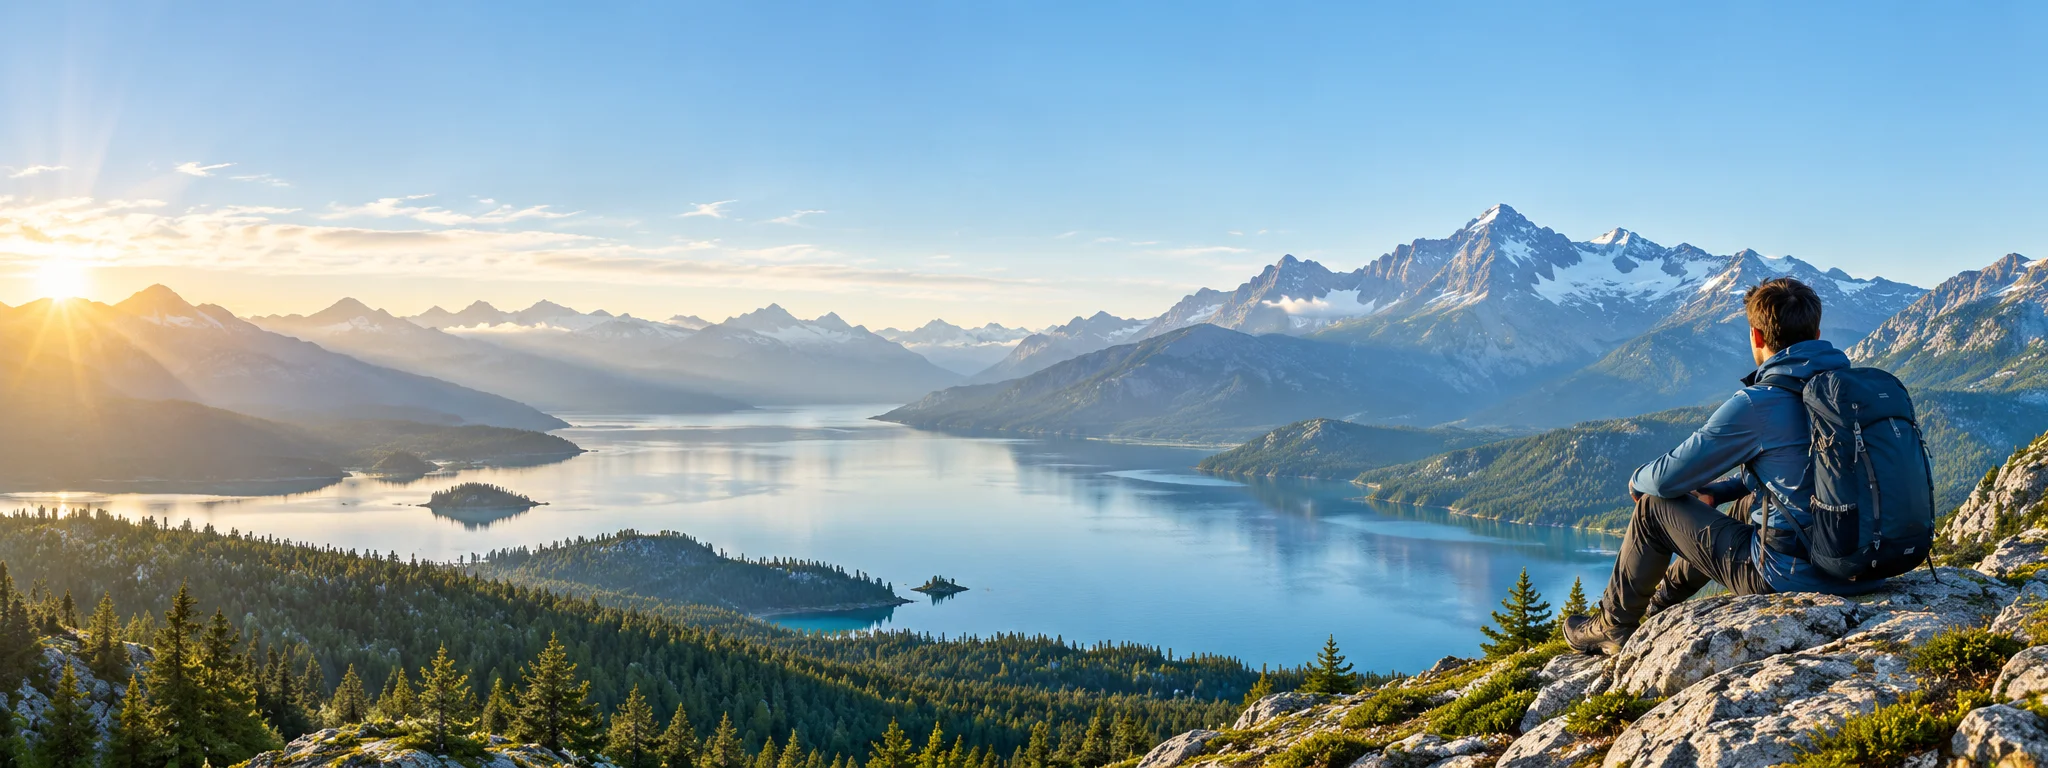
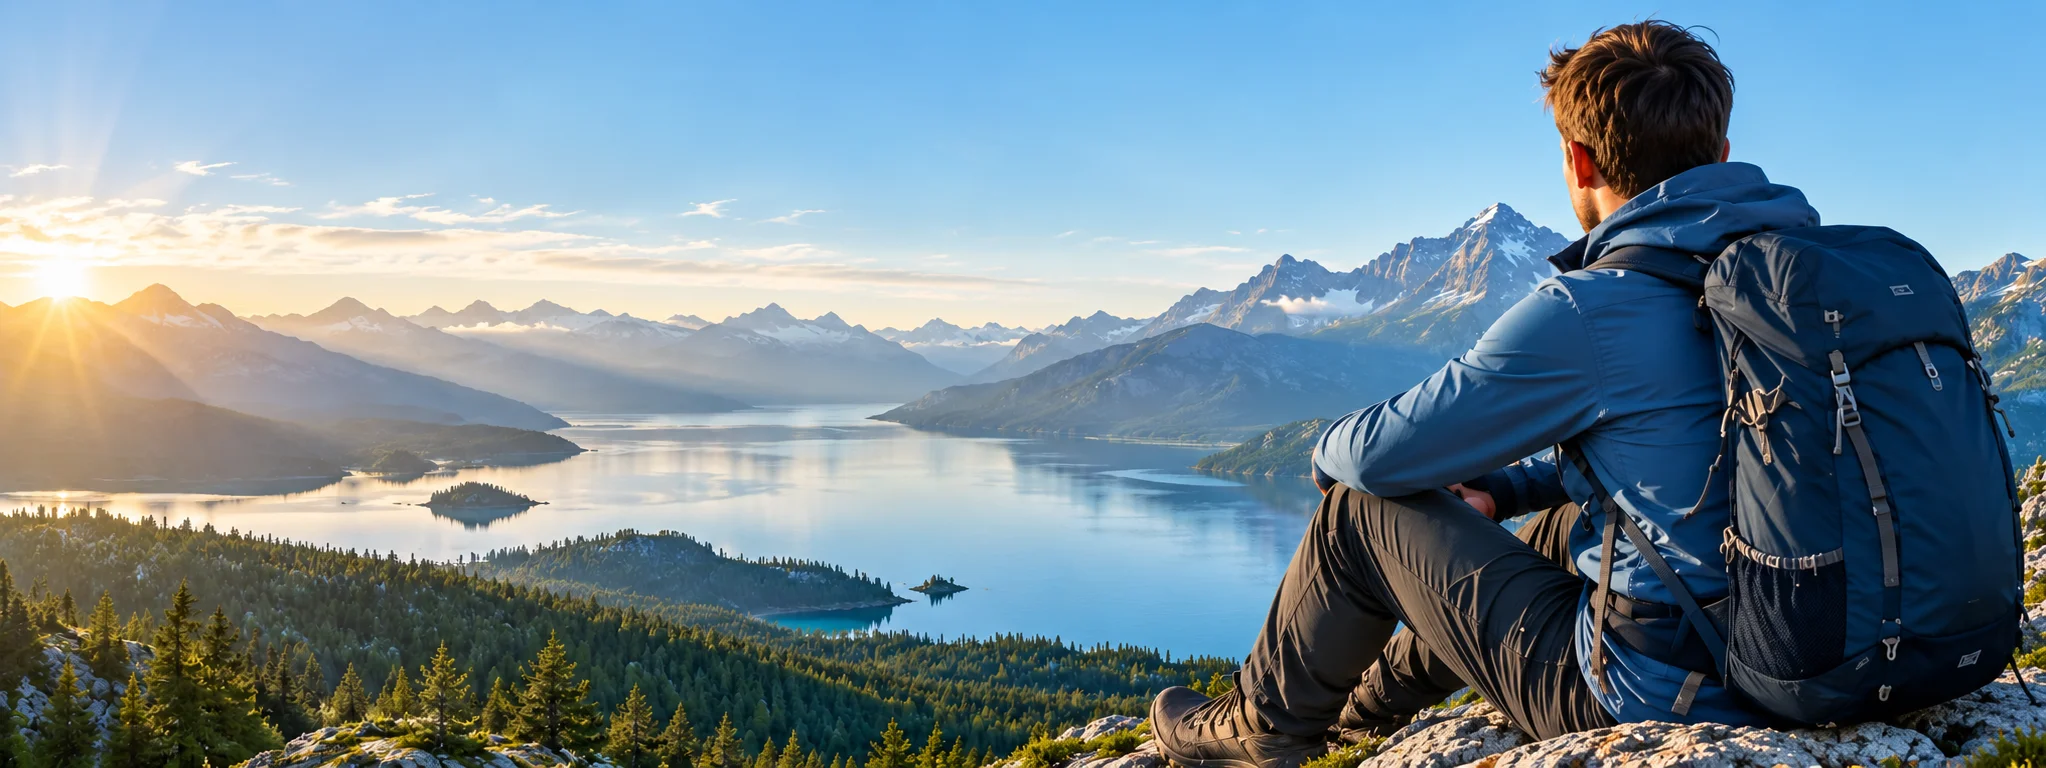
Приблизить сидящего персонажа на фоне главной

diff --git a/src/components/HomeDashboard.css b/src/components/HomeDashboard.css
@@ -116,3 +116,6 @@
 
 .mobile-city-footer { display:none; }
 @media(max-width:760px) { .mobile-city-footer { display:block; margin:25px 16px; text-align:center; } .mobile-city-footer > img { display:block; width:100%; height:135px; object-fit:cover; border-radius:18px; mask-image:linear-gradient(transparent,black 10%,black 85%,transparent); } .mobile-city-footer .play-brand { justify-content:center; margin-top:10px; text-align:left; } }
+
+@media(max-width:760px) { .home-welcome { background-position:82% center; } .home-welcome h1 { max-width:62%; } }
+@media(min-width:761px) { .home-demo-start { top:auto; bottom:16px; left:25px; right:auto; } }

diff --git a/docs/HOME.md b/docs/HOME.md
@@ -32,3 +32,9 @@
 ## Проверки
 
 npm run check, npm test; браузерная проверка выбора и сохранения награды, выполнения квеста, переходов, погоды, отсутствия ошибок и переполнения на 320/390/768/1024/1440 px.
+
+## Персонаж ближе к зрителю
+
+По отдельной правке пользователя персонаж на фоне увеличен и перенесён на передний план; поза сидя и пейзаж сохранены. На телефоне кадр смещён вправо, чтобы персонаж попадал в видимую область. Файл заменён: src/assets/home-mountains.webp. Режим: редактирование встроенным image_gen. Промпт:
+
+> Edit the supplied panoramic mountain hero photograph. Make only one composition change: move the same seated male hiker much closer to the camera and enlarge him by about 1.6 times. He must remain seated on the foreground rock at the right, viewed from behind with the same blue outdoor jacket, dark trousers and blue backpack, looking toward the alpine lake. Show his head, shoulders, backpack and bent legs prominently; his seated silhouette should occupy approximately 80 percent of the image height and the rightmost 32 percent of the image, with the head around 78 percent of the width. Preserve the existing lake, mountains, pine forest, warm sunrise, natural photographic style and overall wide panoramic 8:3 canvas. Keep the left 65 percent spacious and unobstructed for dashboard text. Do not add text, logos, UI or extra people. Keep realistic anatomy and a clearly seated posture. The character should feel close to the viewer, in the immediate foreground.
